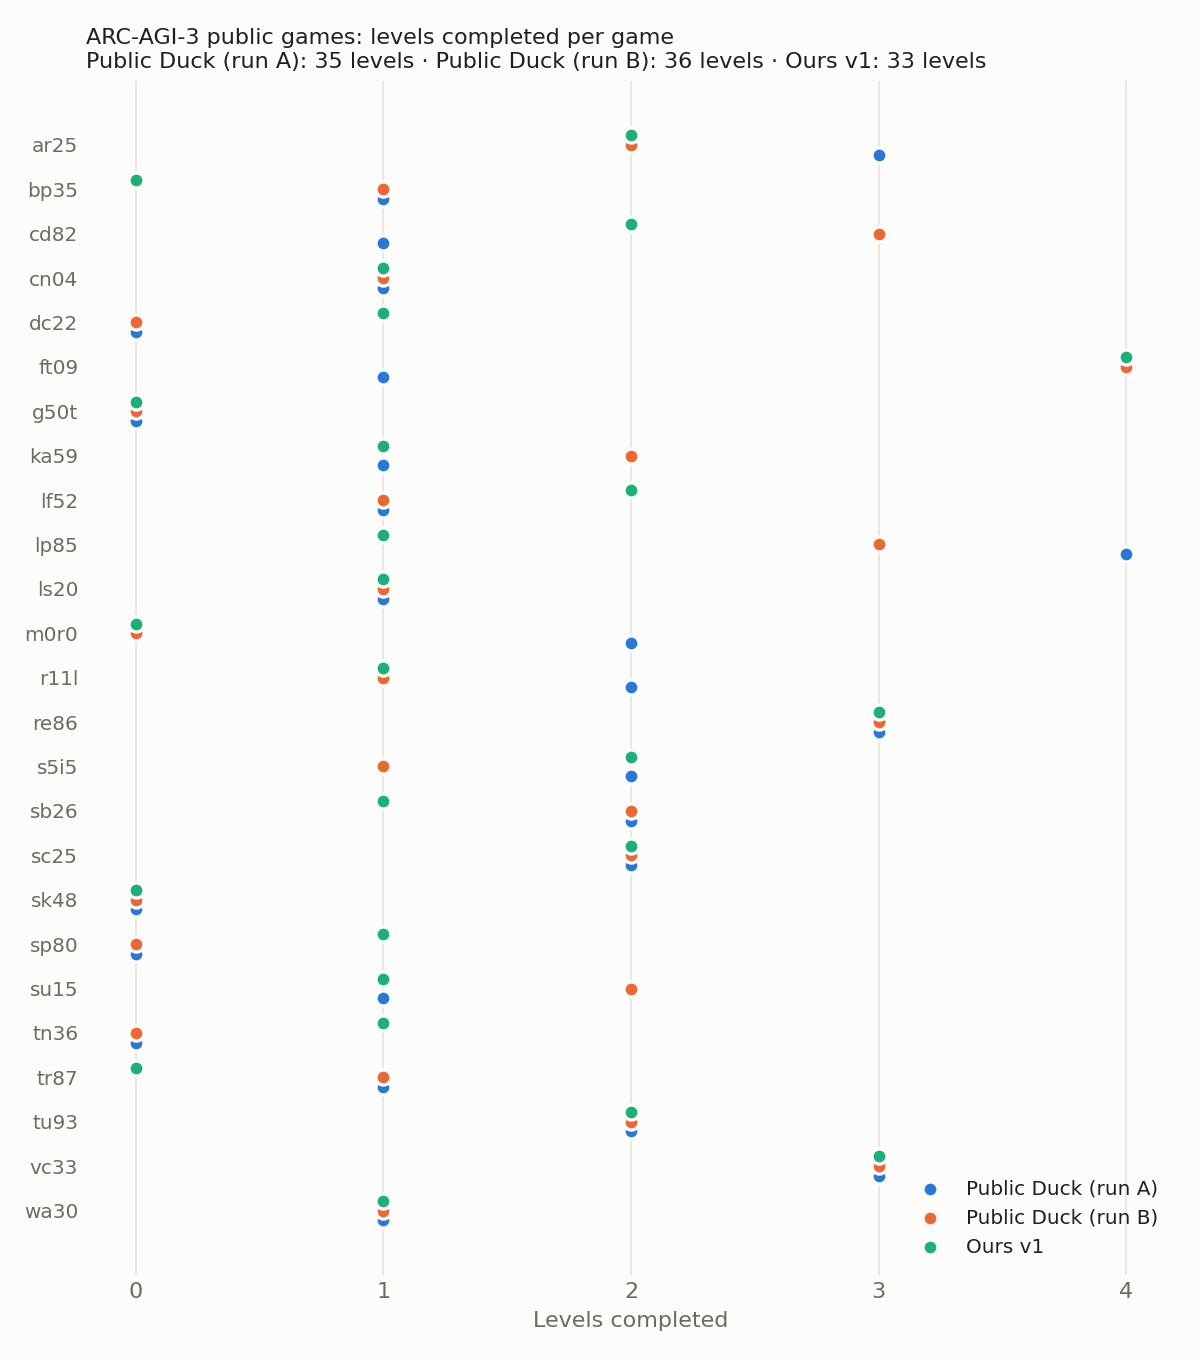
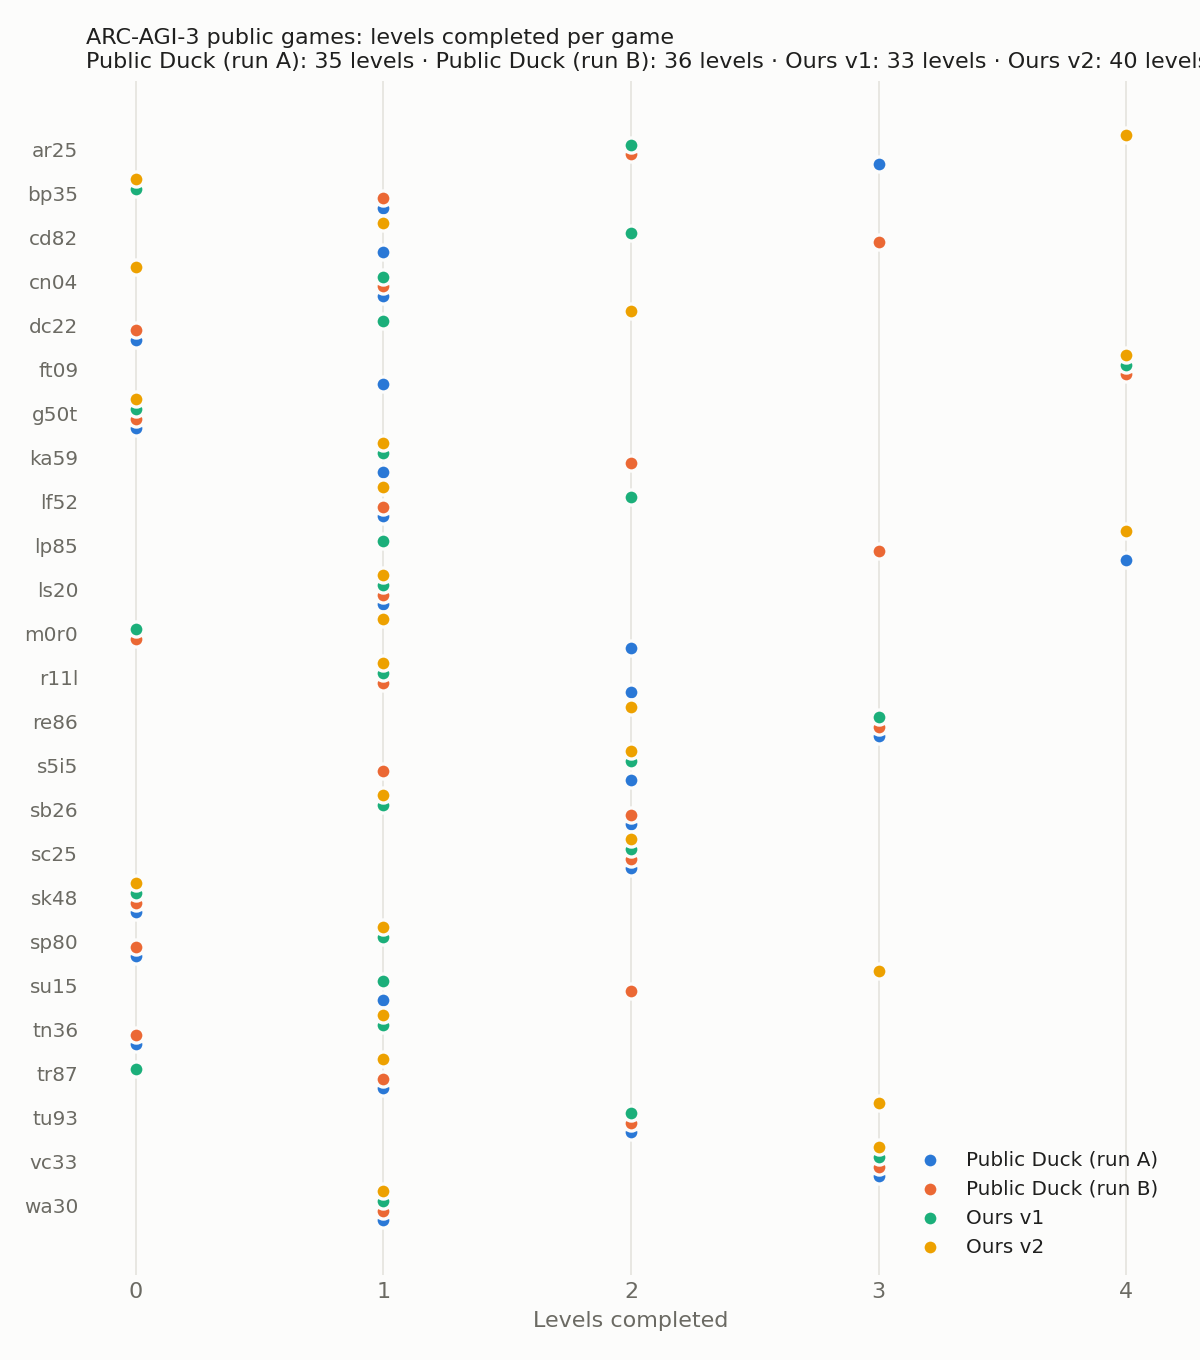
ARC3: v2 public-25 result (8.04, 40 levels); update paper figures
Claude-Session: https://claude.ai/code/session_01KqyN6V745RJS6piKPdaLou

diff --git a/papers/arc/figures/levels_table.md b/papers/arc/figures/levels_table.md
@@ -1,27 +1,27 @@
-| game | Public Duck (run A) | Public Duck (run B) | Ours v1 |
-|---|---|---|---|
-| ar25 | 3 (14.1) | 2 (8.3) | 2 (8.3) |
-| bp35 | 1 (0.4) | 1 (1.9) | 0 (0.0) |
-| cd82 | 1 (1.9) | 3 (14.6) | 2 (7.1) |
-| cn04 | 1 (4.8) | 1 (4.8) | 1 (3.9) |
-| dc22 | 0 (0.0) | 0 (0.0) | 1 (0.6) |
-| ft09 | 1 (4.8) | 4 (47.6) | 4 (47.6) |
-| g50t | 0 (0.0) | 0 (0.0) | 0 (0.0) |
-| ka59 | 1 (3.6) | 2 (10.7) | 1 (3.6) |
-| lf52 | 1 (1.8) | 1 (1.8) | 2 (4.8) |
-| lp85 | 4 (20.6) | 3 (13.7) | 1 (2.8) |
-| ls20 | 1 (3.6) | 1 (3.0) | 1 (1.1) |
-| m0r0 | 2 (13.9) | 0 (0.0) | 0 (0.0) |
-| r11l | 2 (14.3) | 1 (4.8) | 1 (4.8) |
-| re86 | 3 (16.7) | 3 (16.7) | 3 (16.7) |
-| s5i5 | 2 (2.0) | 1 (2.8) | 2 (7.2) |
-| sb26 | 2 (3.6) | 2 (3.2) | 1 (2.8) |
-| sc25 | 2 (3.4) | 2 (14.3) | 2 (14.3) |
-| sk48 | 0 (0.0) | 0 (0.0) | 0 (0.0) |
-| sp80 | 0 (0.0) | 0 (0.0) | 1 (4.8) |
-| su15 | 1 (2.2) | 2 (3.4) | 1 (2.2) |
-| tn36 | 0 (0.0) | 0 (0.0) | 1 (3.0) |
-| tr87 | 1 (4.8) | 1 (4.8) | 0 (0.0) |
-| tu93 | 2 (4.8) | 2 (2.9) | 2 (3.9) |
-| vc33 | 3 (21.0) | 3 (7.5) | 3 (14.6) |
-| wa30 | 1 (2.2) | 1 (2.2) | 1 (2.2) |
+| game | Public Duck (run A) | Public Duck (run B) | Ours v1 | Ours v2 |
+|---|---|---|---|---|
+| ar25 | 3 (14.1) | 2 (8.3) | 2 (8.3) | 4 (19.5) |
+| bp35 | 1 (0.4) | 1 (1.9) | 0 (0.0) | 0 (0.0) |
+| cd82 | 1 (1.9) | 3 (14.6) | 2 (7.1) | 1 (4.8) |
+| cn04 | 1 (4.8) | 1 (4.8) | 1 (3.9) | 0 (0.0) |
+| dc22 | 0 (0.0) | 0 (0.0) | 1 (0.6) | 2 (14.3) |
+| ft09 | 1 (4.8) | 4 (47.6) | 4 (47.6) | 4 (47.6) |
+| g50t | 0 (0.0) | 0 (0.0) | 0 (0.0) | 0 (0.0) |
+| ka59 | 1 (3.6) | 2 (10.7) | 1 (3.6) | 1 (3.3) |
+| lf52 | 1 (1.8) | 1 (1.8) | 2 (4.8) | 1 (1.8) |
+| lp85 | 4 (20.6) | 3 (13.7) | 1 (2.8) | 4 (21.5) |
+| ls20 | 1 (3.6) | 1 (3.0) | 1 (1.1) | 1 (3.6) |
+| m0r0 | 2 (13.9) | 0 (0.0) | 0 (0.0) | 1 (4.8) |
+| r11l | 2 (14.3) | 1 (4.8) | 1 (4.8) | 1 (4.8) |
+| re86 | 3 (16.7) | 3 (16.7) | 3 (16.7) | 2 (8.3) |
+| s5i5 | 2 (2.0) | 1 (2.8) | 2 (7.2) | 2 (7.4) |
+| sb26 | 2 (3.6) | 2 (3.2) | 1 (2.8) | 1 (0.8) |
+| sc25 | 2 (3.4) | 2 (14.3) | 2 (14.3) | 2 (5.6) |
+| sk48 | 0 (0.0) | 0 (0.0) | 0 (0.0) | 0 (0.0) |
+| sp80 | 0 (0.0) | 0 (0.0) | 1 (4.8) | 1 (4.8) |
+| su15 | 1 (2.2) | 2 (3.4) | 1 (2.2) | 3 (13.3) |
+| tn36 | 0 (0.0) | 0 (0.0) | 1 (3.0) | 1 (1.2) |
+| tr87 | 1 (4.8) | 1 (4.8) | 0 (0.0) | 1 (4.8) |
+| tu93 | 2 (4.8) | 2 (2.9) | 2 (3.9) | 3 (12.6) |
+| vc33 | 3 (21.0) | 3 (7.5) | 3 (14.6) | 3 (14.1) |
+| wa30 | 1 (2.2) | 1 (2.2) | 1 (2.2) | 1 (2.2) |

diff --git a/arc3/results.md b/arc3/results.md
@@ -1,0 +1,16 @@
+# ARC-AGI-3 results log
+
+Public 25 games, one run each, same model (Qwen3.8 Flash Next NVFP4), 132 min/game, 28 concurrent.
+
+| Run | Date | Mean score | Levels | Zero-score games | Notes |
+|---|---|---|---|---|---|
+| Public Duck A (wuliao0) | 2026-09-18 | 5.78 | 35 | 5 | reference |
+| Public Duck B (keithtyser) | 2026-09-01 | 6.76 | 36 | 6 | reference |
+| Ours v1 | 2026-09-27 | 6.25 | 33 | 5 | game-over fix, animation evidence, note parsing, context budget, level memory |
+| Ours v2 | 2026-09-27 | 8.04 | 40 | 4 | v1 + >=420 s turn yield + idle/stuck nudges |
+
+Leaderboard submissions:
+
+| Ref | Version | Submitted | Public LB |
+|---|---|---|---|
+| 56605759 | v1 | 2026-09-27 10:19 UTC | pending |

diff --git a/papers/arc/writeup.md b/papers/arc/writeup.md
@@ -52,7 +52,7 @@ Public games, one run each (the same model, sampling and budget as the reference
 | Public Duck, run A | 5.78 | 35 | 5 |
 | Public Duck, run B | 6.76 | 36 | 6 |
 | Ours v1 | 6.25 | 33 | 5 |
-| Ours v2 | **[TBD]** | **[TBD]** | **[TBD]** |
+| Ours v2 | 8.04 | 40 | 4 |
 
 ![Levels completed per game](figures/levels_per_game.png)
 
